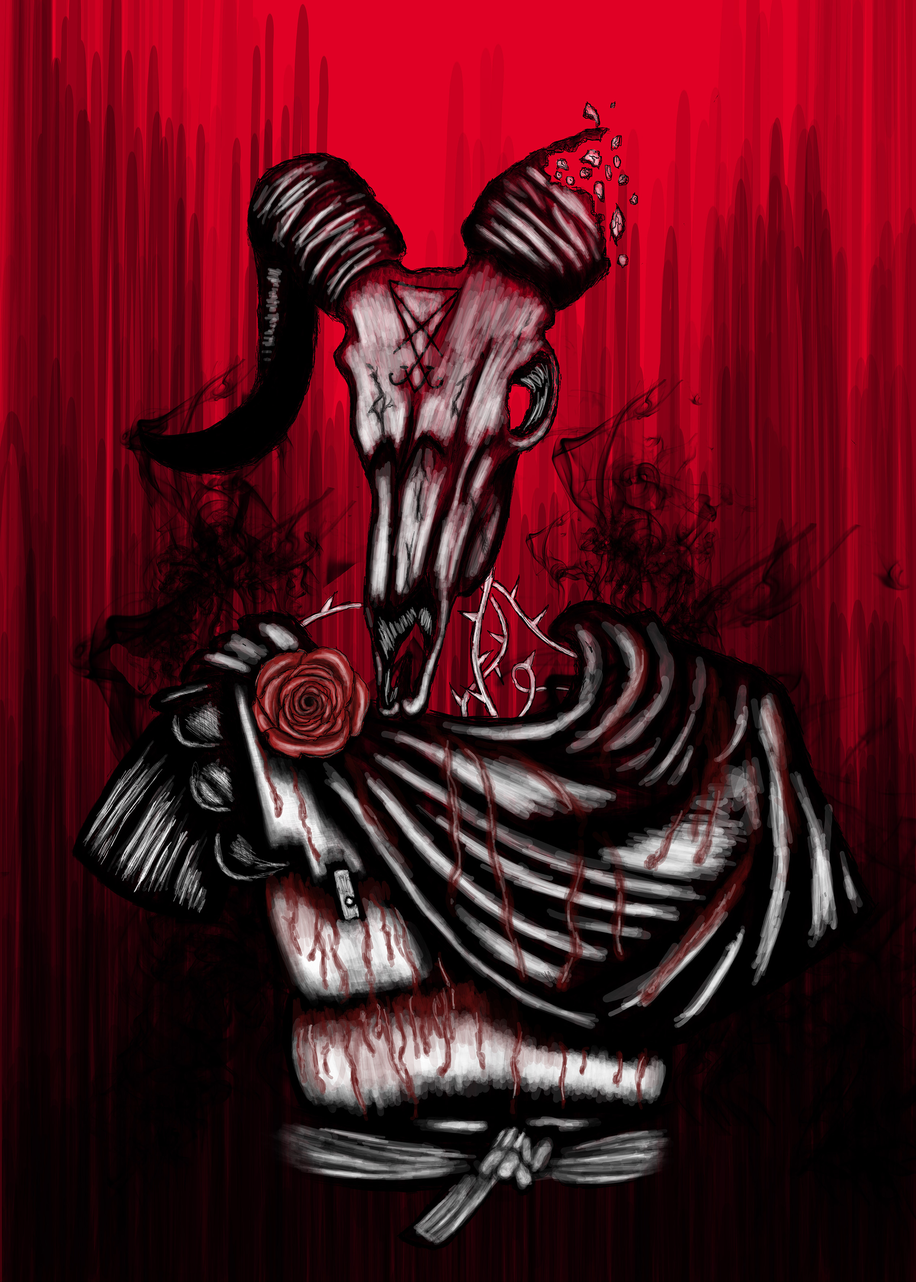
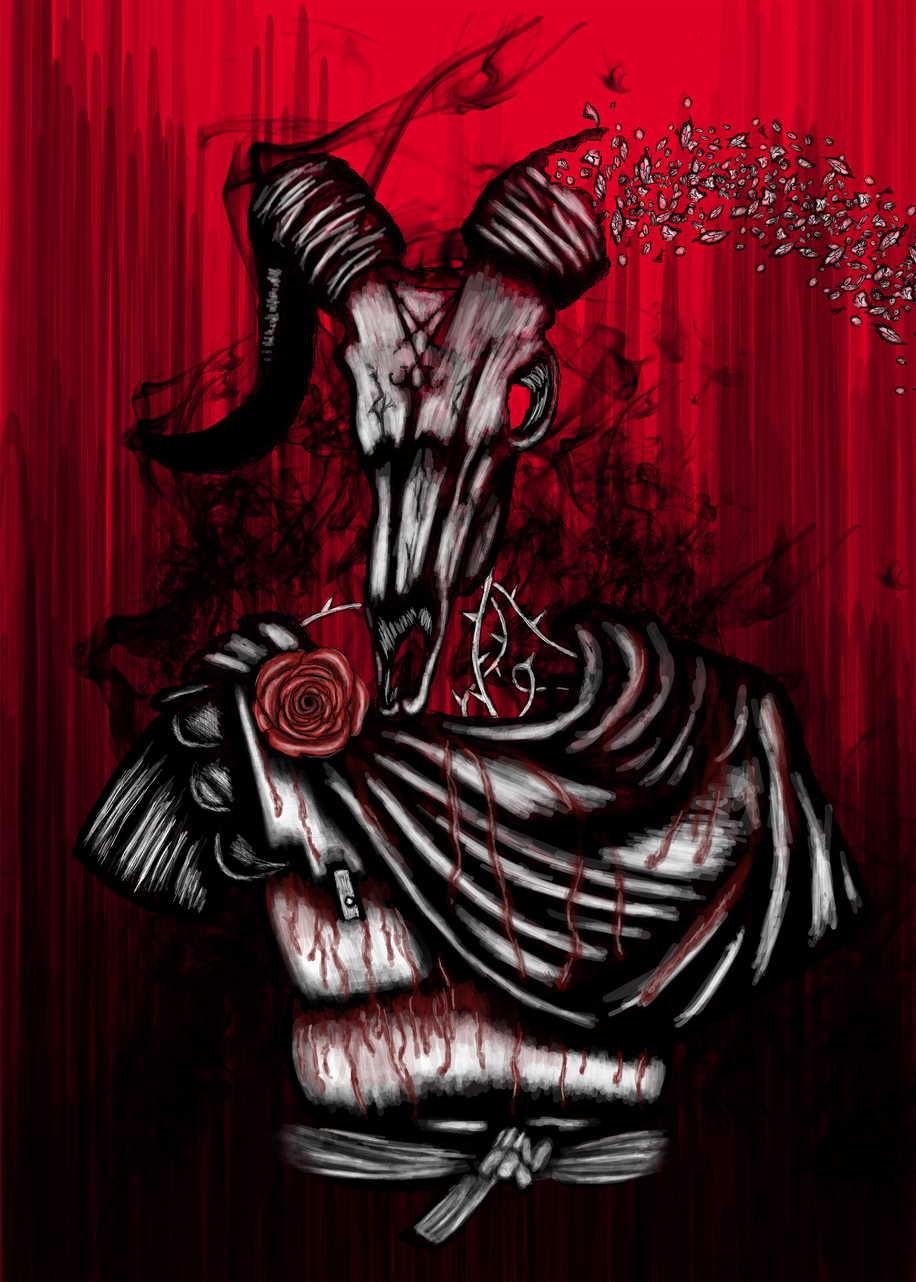
add lucifer three and four components

diff --git a/src/components/lucifer.jsx b/src/components/lucifer.jsx
@@ -13,7 +13,9 @@ function Lucifer(props) {
           <h1 className="page_title">Lucifer</h1>
           <main id="lucifer"  onClick={toggleClass} className={isActive ? 'activeArt' : null}>
           </main>
-          <a className="showMore" href="/luciferTwo">Show more</a>
+          <a className="showMore" href="/luciferTwo">Lucifer ver 2</a>
+          <a className="showMore" href="/luciferThree">Lucifer ver 3</a>
+          <a className="showMore" href="/luciferFour">Lucifer ver 4</a>
           <div className="page_description_content"><h5 className="page_desc_content_txt">Lorem ipsum, dolor sit amet consectetur adipisicing elit. Libero placeat voluptas aliquid explicabo id debitis similique officiis quod architecto suscipit. Expedita animi saepe aspernatur et autem earum quis dolore adipisci!
           Lorem ipsum, dolor sit amet consectetur adipisicing elit. Libero placeat voluptas aliquid explicabo id debitis similique officiis quod architecto suscipit. Expedita animi saepe aspernatur et autem earum quis dolore adipisci!
             </h5></div>

diff --git a/src/components/lilith.jsx b/src/components/lilith.jsx
@@ -13,7 +13,7 @@ function Lilith(props) {
           <h1 className="page_title">Lilith</h1>
           <main id="lilith"  onClick={toggleClass} className={isActive ? 'activeArt' : null}>
           </main>
-          <a className="showMore" href="/lilithTwo">Show more</a>
+          <a className="showMore" href="/lilithTwo">Lilith ver 2</a>
           <div className="page_description_content"><h5 className="page_desc_content_txt">Lorem ipsum, dolor sit amet consectetur adipisicing elit. Libero placeat voluptas aliquid explicabo id debitis similique officiis quod architecto suscipit. Expedita animi saepe aspernatur et autem earum quis dolore adipisci!
           Lorem ipsum, dolor sit amet consectetur adipisicing elit. Libero placeat voluptas aliquid explicabo id debitis similique officiis quod architecto suscipit. Expedita animi saepe aspernatur et autem earum quis dolore adipisci!
             </h5></div>

diff --git a/src/App.js b/src/App.js
@@ -12,6 +12,8 @@ import Amdusias from "./components/amdusias";
 import Dantalion from "./components/dantalion";
 import LilithTwo from "./components/lilithTwo";
 import LuciferTwo from "./components/luciferTwo";
+import LuciferThree from "./components/luciferThree";
+import LuciferFour from "./components/luciferFour";
 
 
 function App() {
@@ -40,6 +42,14 @@ function App() {
 
         case "/luciferTwo":
         component = <LuciferTwo/>  
+        break;   
+
+        case "/luciferThree":
+        component = <LuciferThree/>  
+        break;   
+
+        case "/luciferFour":
+        component = <LuciferFour/>  
         break;   
      
     case "/samael":

diff --git a/src/components/luciferThree.jsx b/src/components/luciferThree.jsx
@@ -1,0 +1,19 @@
+function LuciferThree(props) {
+    
+  
+    return (
+      <>
+      <div className="page_container--horizon">
+        <h1 className="page_title">Lucifer</h1>
+        <main id="luciferThree" className="activeArt">
+        <div className="luciferName large_art"></div>  
+        <button className="backBtn"><a className="showMore" href="/lucifer">Back</a></button>
+        </main>
+          
+      </div> 
+      
+      </>
+    );
+  }
+  
+  export default LuciferThree;

diff --git a/src/components/luciferFour.jsx b/src/components/luciferFour.jsx
@@ -1,0 +1,19 @@
+function LuciferFour(props) {
+    
+  
+    return (
+      <>
+      <div className="page_container--horizon">
+        <h1 className="page_title">Lucifer</h1>
+        <main id="luciferFour" className="activeArt">
+        <div className="luciferName large_art"></div>  
+        <button className="backBtn"><a className="showMore" href="/lucifer">Back</a></button>
+        </main>
+          
+      </div> 
+      
+      </>
+    );
+  }
+  
+  export default LuciferFour;

diff --git a/src/style/horizonArtpage.scss b/src/style/horizonArtpage.scss
@@ -167,6 +167,16 @@ main
     background-image: url("../assets/LuciferCloser.jpg");
 }
 
+#luciferThree
+{
+    background-image: url("../assets/Lucifer.jpg");
+}
+
+#luciferFour
+{
+    background-image: url("../assets/Lucifer2.jpg");
+}
+
 button
 {
     background-color: black;
@@ -195,7 +205,7 @@ button
 
 #lucifer
 {
-    background-image: url("../assets/Lucifer.jpg");
+    background-image: url("../assets/Lucifer3.jpg");
     //insert art here
 }
 
